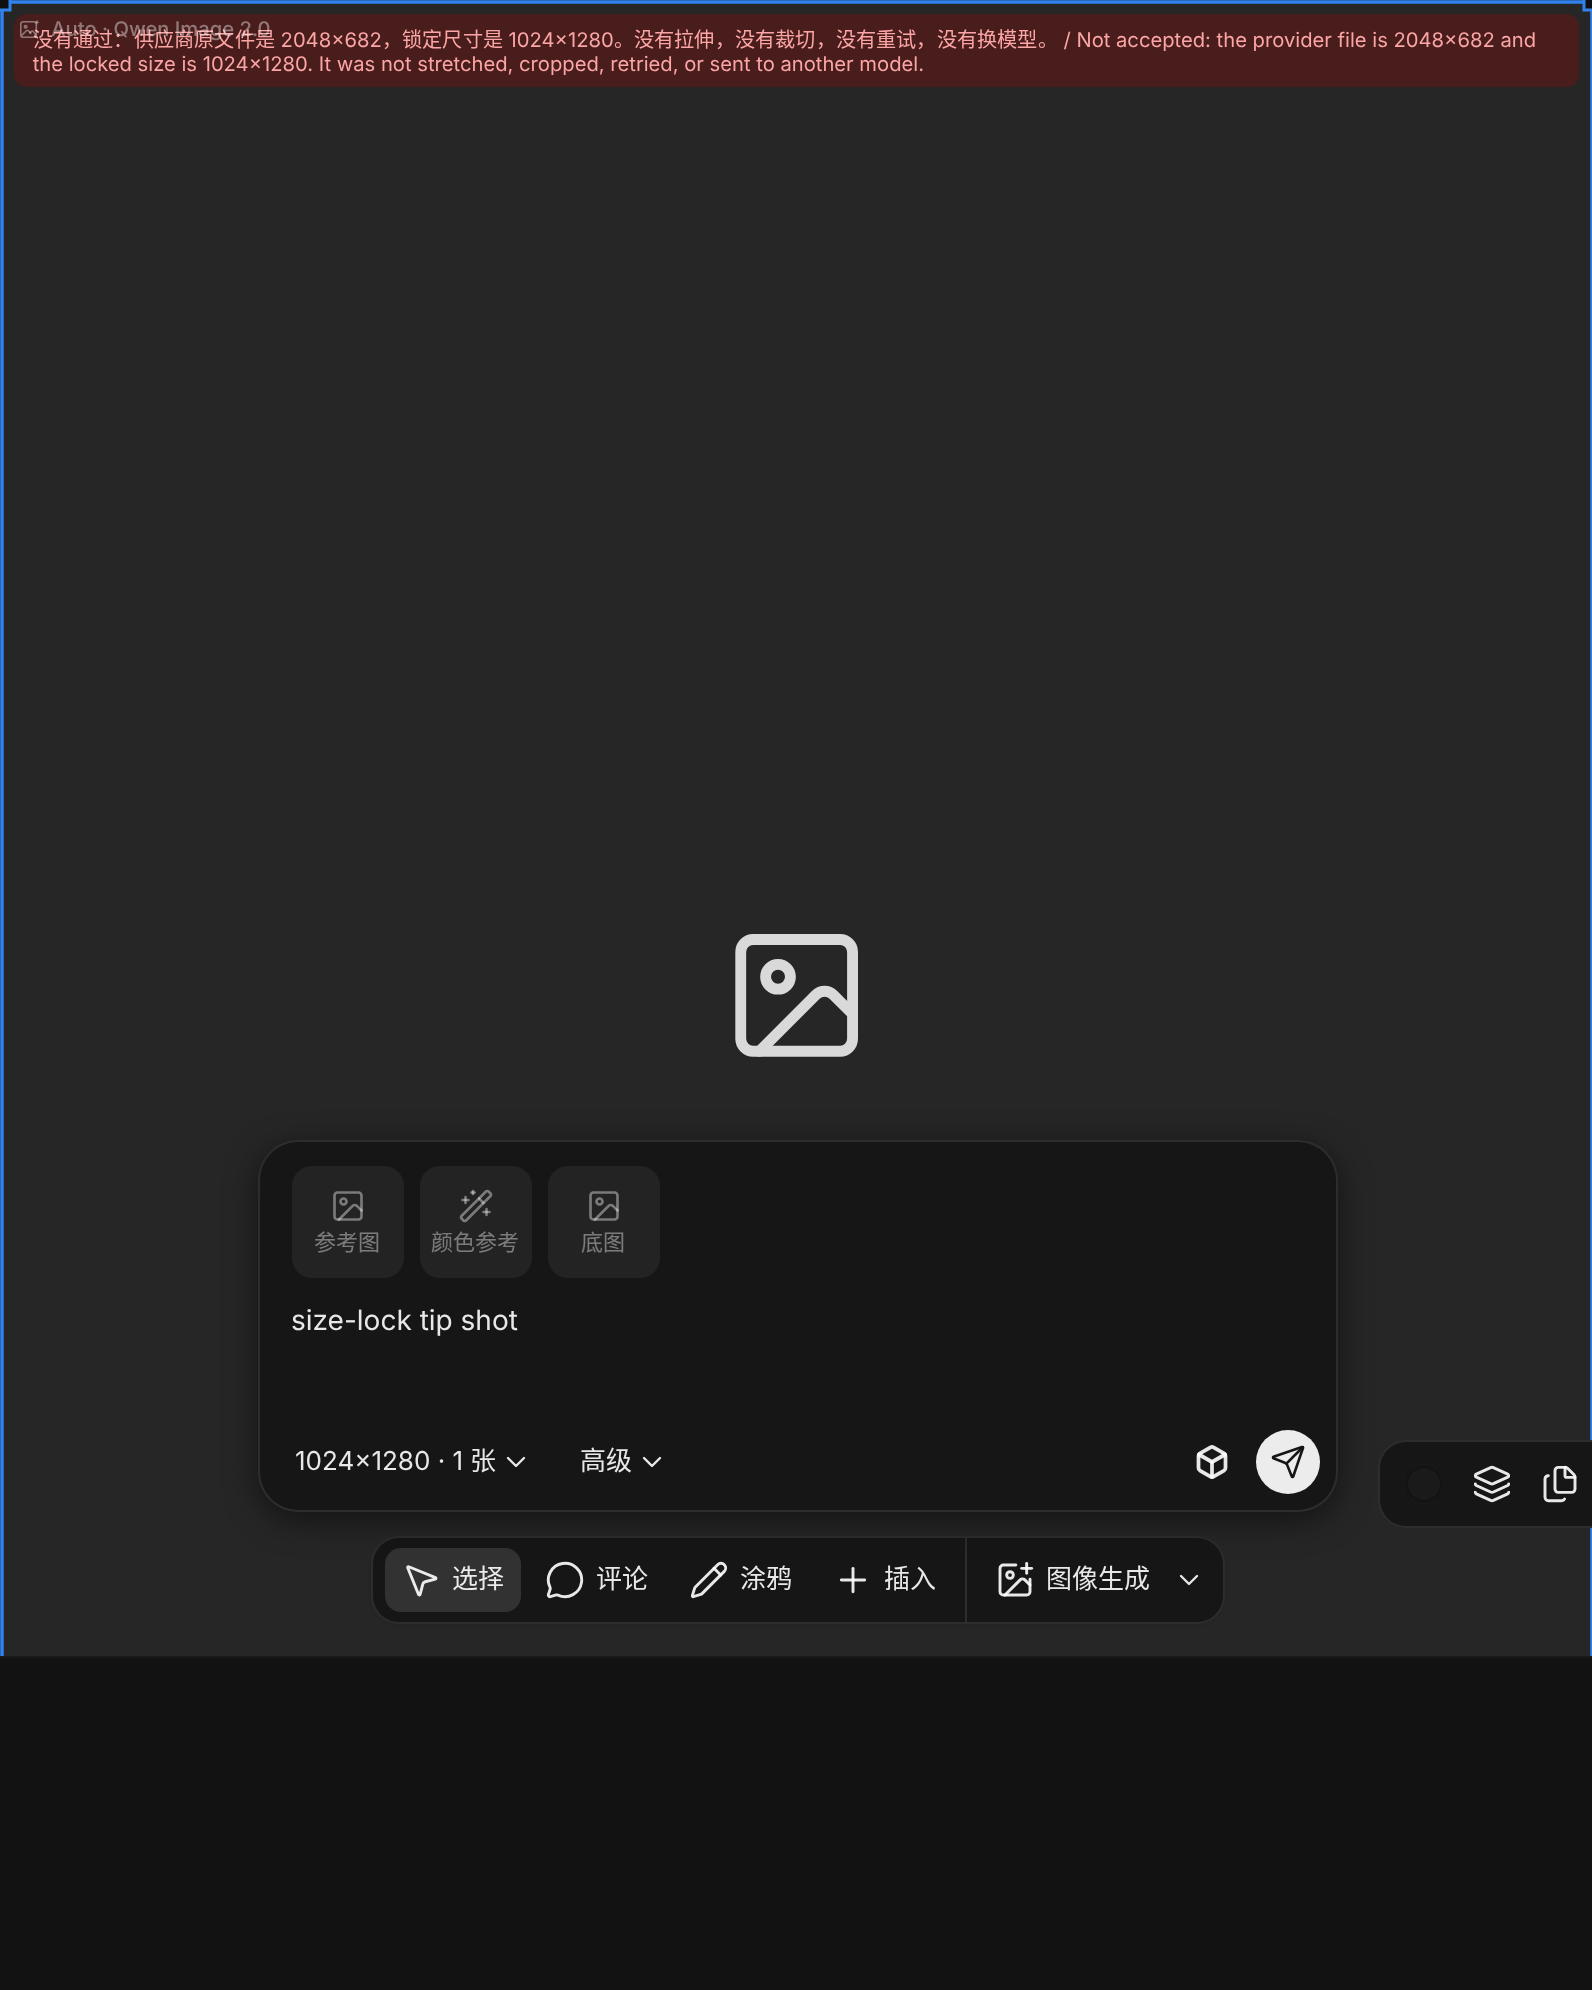
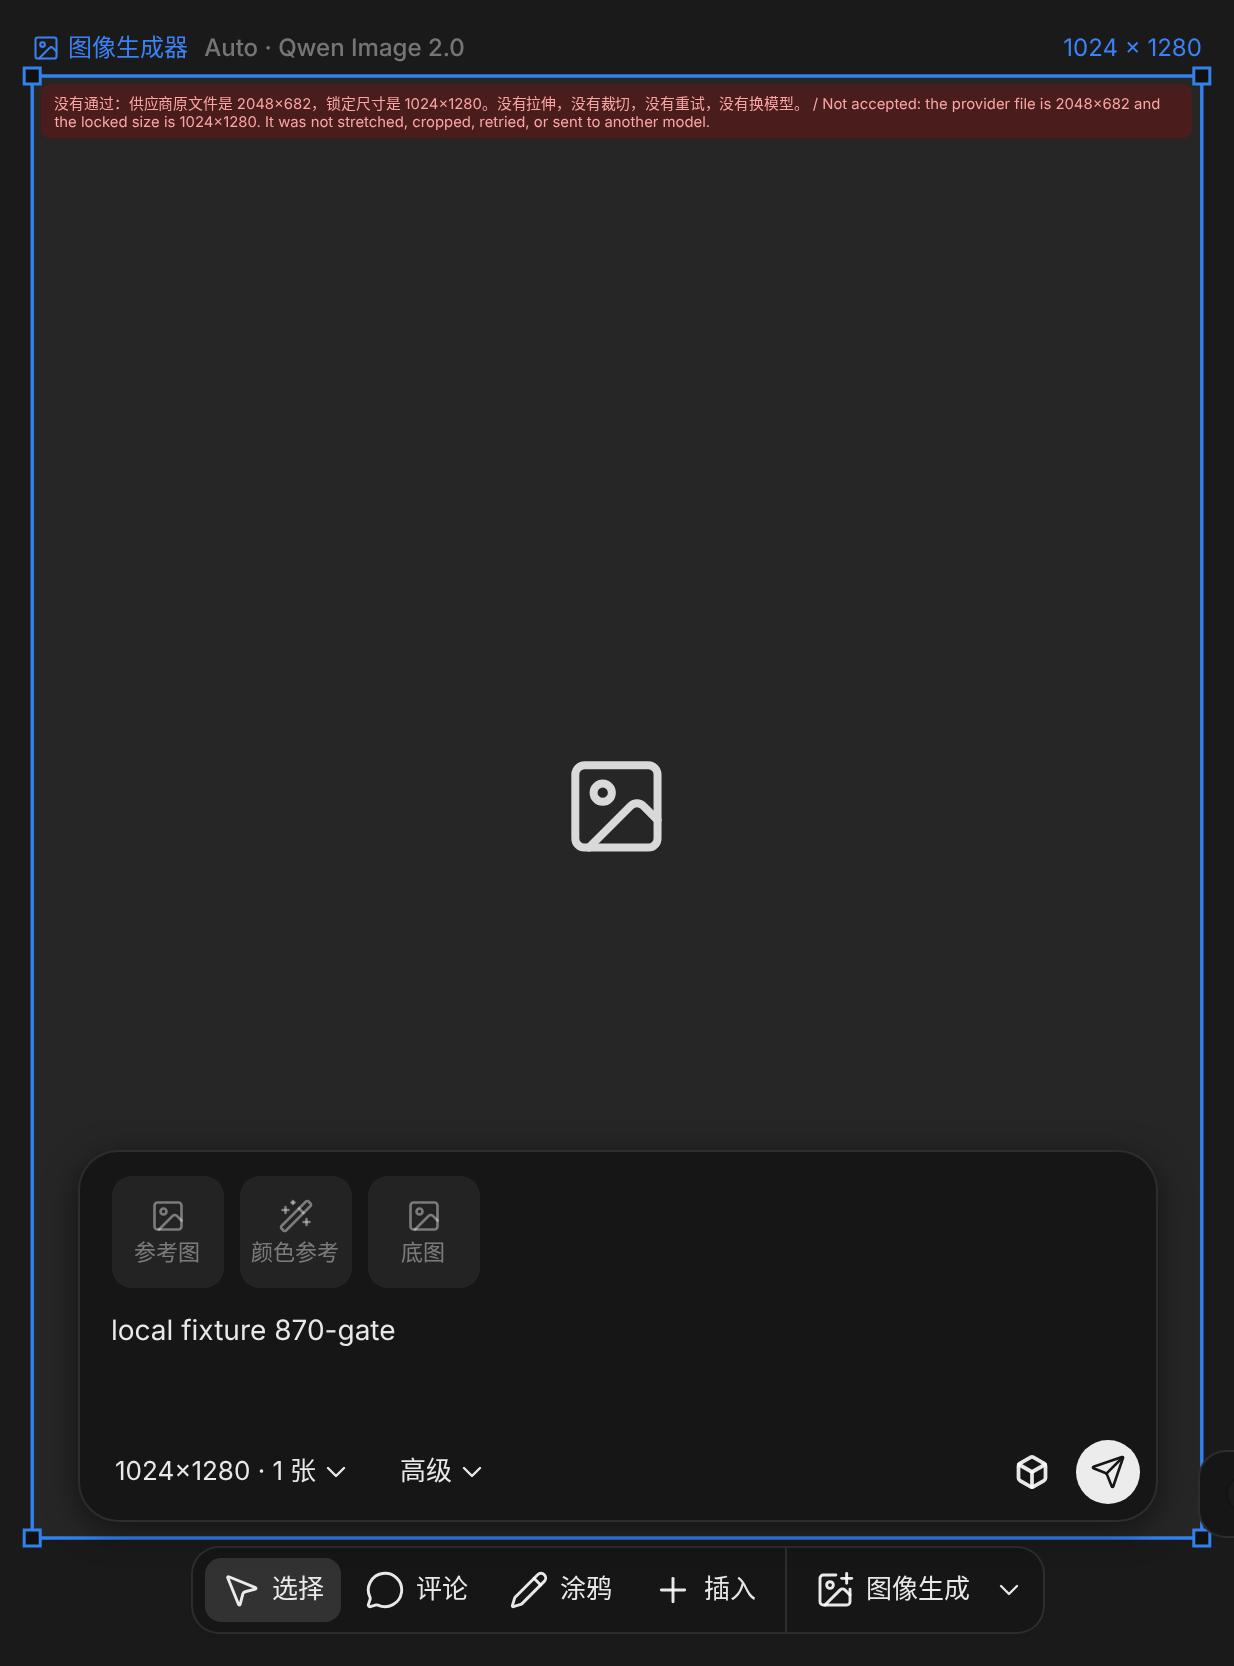
fix(#870): hide in-frame Auto label on settled no-output cards
#871 only styled .ca-gen-frame__model under [data-pending]. Always-absolute
made the label overlap the red error banner. Omit the in-frame row unless
pending (SelectionLabel already shows Auto · <model> in the header). Restore
the pending CSS gate with a real descendant selector. E2E asserts no in-card
model node on failed/null-job/refused and bbox non-overlap if reintroduced.
Retake tip shot with header row + L/R collage.

diff --git a/src/styles/canvas.css b/src/styles/canvas.css
@@ -44,10 +44,11 @@
 /* #715 design: task-id line on its own line; the id never breaks mid-string, ellipsis if wider than the card (full id in title) */
 .ca-gen-card__error { white-space: pre-line; }
 .ca-gen-card__status { position: absolute; left: 8px; right: 8px; top: 8px; padding: 6px 12px; border-radius: 8px; background: var(--ca-field); color: var(--ca-text); font-size: 13px; overflow-wrap: anywhere; white-space: pre-line; }
-/* #825/#870: Lovart-style model row (gray text + icon), not a colored capsule.
-   Absolute on every no-output card — never gate on [data-pending] (that made failed/refused
-   cards park Auto · name in-flow next to the placeholder, looking like a broken <img> alt). */
-.ca-gen-frame__model {
+/* #825/#870: in-frame Auto · model row while pending only (absolute top-left).
+   #871 gated styles on [data-pending]; #870 also omits the node when not pending so settled
+   no-output cards never overlap the error banner or sit in-flow next to the placeholder.
+   SelectionLabel keeps Auto · <model> in the header row. */
+.ca-gen-card[data-pending] .ca-gen-frame__model {
   position: absolute;
   left: 10px;
   top: 10px;

diff --git a/src/shapes/GeneratorShape.tsx b/src/shapes/GeneratorShape.tsx
@@ -140,10 +140,12 @@ function GeneratorCard({ shape }: { shape: GeneratorShape }) {
     : job ? t('taskDetails.generating')
     : null
   // #825: Lovart-style gray icon+text row (not a colored capsule). Auto · name; manual = name only.
+  // #870: in-frame row only while pending (matches #871 CSS gate). Settled no-output cards
+  // would overlap the error banner; SelectionLabel already shows Auto · <model> in the header.
   const choice = (shape.meta.modelChoice as ModelChoice | undefined)
     || (job ? { auto: true } as ModelChoice : null)
-  const modelLabel = autoPillLabel(choice)
-  const modelTitle = autoPillTooltip(choice, lang)
+  const modelLabel = pending ? autoPillLabel(choice) : null
+  const modelTitle = pending ? autoPillTooltip(choice, lang) : undefined
   return (
     <HTMLContainer
       className={job || pending ? 'ca-gen-card ca-gen-frame' : 'ca-gen-card'}

diff --git a/tests/test_e2e_skill_gen_card_no_output_img_870.py b/tests/test_e2e_skill_gen_card_no_output_img_870.py
@@ -2,7 +2,8 @@
 
 Covers failed (job stub + error), recovering/null-job (job cleared + error), and
 size-lock refused. Mock WaveSpeed only, $0. Asserts: no <img> with empty/missing
-src inside .ca-gen-card, and no img alt contains the model short name.
+src inside .ca-gen-card; no img alt contains the model short name; in-frame Auto
+label does not intersect the error banner or placeholder (out of flow / absent).
 """
 from __future__ import annotations
 
@@ -52,11 +53,20 @@ async def _open_gen(page, app_url):
     )
 
 
+def _overlap(a, b):
+    return not (a["x2"] <= b["x1"] or b["x2"] <= a["x1"] or a["y2"] <= b["y1"] or b["y2"] <= a["y1"])
+
+
 async def _assert_no_output_img_leak(page, label: str):
     info = await page.evaluate(
         """(frag) => {
           const card = document.querySelector('.ca-gen-card')
           if (!card) return { err: 'no-card' }
+          const rect = (el) => {
+            if (!el) return null
+            const r = el.getBoundingClientRect()
+            return { x1: r.left, y1: r.top, x2: r.right, y2: r.bottom, w: r.width, h: r.height }
+          }
           const imgs = [...card.querySelectorAll('img')]
           const empty = imgs.filter((i) => {
             const s = i.getAttribute('src')
@@ -67,11 +77,18 @@ async def _assert_no_output_img_leak(page, label: str):
             return a.includes(frag) || /Auto\\s*·/.test(a)
           }).map((i) => ({ alt: i.getAttribute('alt'), src: i.getAttribute('src') }))
           const model = card.querySelector('[data-testid=auto-model-label]')
+          const errEl = card.querySelector('.ca-gen-card__error')
+          const icon = card.querySelector('.ca-gen-card__icon')
           const modelPos = model ? getComputedStyle(model).position : null
+          const modelDisplay = model ? getComputedStyle(model).display : null
           return {
-            imgCount: imgs.length, empty, named, modelPos,
-            hasError: !!card.querySelector('.ca-gen-card__error'),
+            imgCount: imgs.length, empty, named, modelPos, modelDisplay,
+            hasError: !!errEl,
             modelText: model ? (model.textContent || '').trim() : null,
+            modelRect: rect(model),
+            errorRect: rect(errEl),
+            iconRect: rect(icon),
+            pending: card.getAttribute('data-pending'),
           }
         }""",
         MODEL_FRAG,
@@ -79,9 +96,16 @@ async def _assert_no_output_img_leak(page, label: str):
     assert info.get("err") is None, (label, info)
     assert info["empty"] == [], (label, info)
     assert info["named"] == [], (label, info)
-    # after #870 CSS fix the Auto row stays absolute (not in-flow "alt" next to the icon)
-    if info.get("modelText"):
+    assert info["hasError"], (label, info)
+    # #870: settled no-output → no in-frame Auto row (SelectionLabel keeps it in the header)
+    assert info["modelText"] is None and info["modelRect"] is None, (label, info)
+    # if a future change reintroduces the node, it must stay out of flow and not intersect
+    if info.get("modelRect"):
         assert info["modelPos"] == "absolute", (label, info)
+        if info.get("errorRect"):
+            assert not _overlap(info["modelRect"], info["errorRect"]), (label, info)
+        if info.get("iconRect") and info["iconRect"]["w"] > 0:
+            assert not _overlap(info["modelRect"], info["iconRect"]), (label, info)
 
 
 @pytest.mark.asyncio
@@ -138,6 +162,5 @@ async def test_no_output_states_have_no_broken_img_or_model_alt(app_url, mock_ws
             }"""
         )
         await page.wait_for_timeout(200)
-        # with job running, icon may hide; error must still not introduce a broken img
         await _assert_no_output_img_leak(page, "failed")
         await browser.close()

diff --git a/tests/test_auto_pill_825.py b/tests/test_auto_pill_825.py
@@ -144,14 +144,12 @@ def test_frontend_auto_pill_mirrors_backend():
     assert "data-testid=\"auto-model-label\"" in chat or "auto-model-label" in chat
     gen = (ROOT / "src/shapes/GeneratorShape.tsx").read_text()
     assert "ca-gen-frame__model" in gen and "autoPillLabel" in gen
-    # Not a colored capsule for the model row; absolute on every card (not gated on [data-pending] — #870)
+    # #870: in-frame label only while pending (JSX + CSS); settled cards use SelectionLabel
+    assert "pending ? autoPillLabel" in gen
     css = (ROOT / "src/styles/canvas.css").read_text()
-    assert "ca-gen-frame__model" in css
-    block = css.split(".ca-gen-frame__model {", 1)[1].split("}", 1)[0]
+    assert ".ca-gen-card[data-pending] .ca-gen-frame__model" in css
+    block = css.split(".ca-gen-card[data-pending] .ca-gen-frame__model {", 1)[1].split("}", 1)[0]
     assert "position: absolute" in block
-    # selector must not be a descendant of [data-pending] (that leaked Auto · name as in-flow "alt")
-    before = css.split(".ca-gen-frame__model {", 1)[0].rstrip()
-    assert not before.endswith("[data-pending]") and ".ca-gen-card[data-pending]" not in before[-80:]
 
 
 def test_resolve_model_choice_auto_and_manual(catalog):
